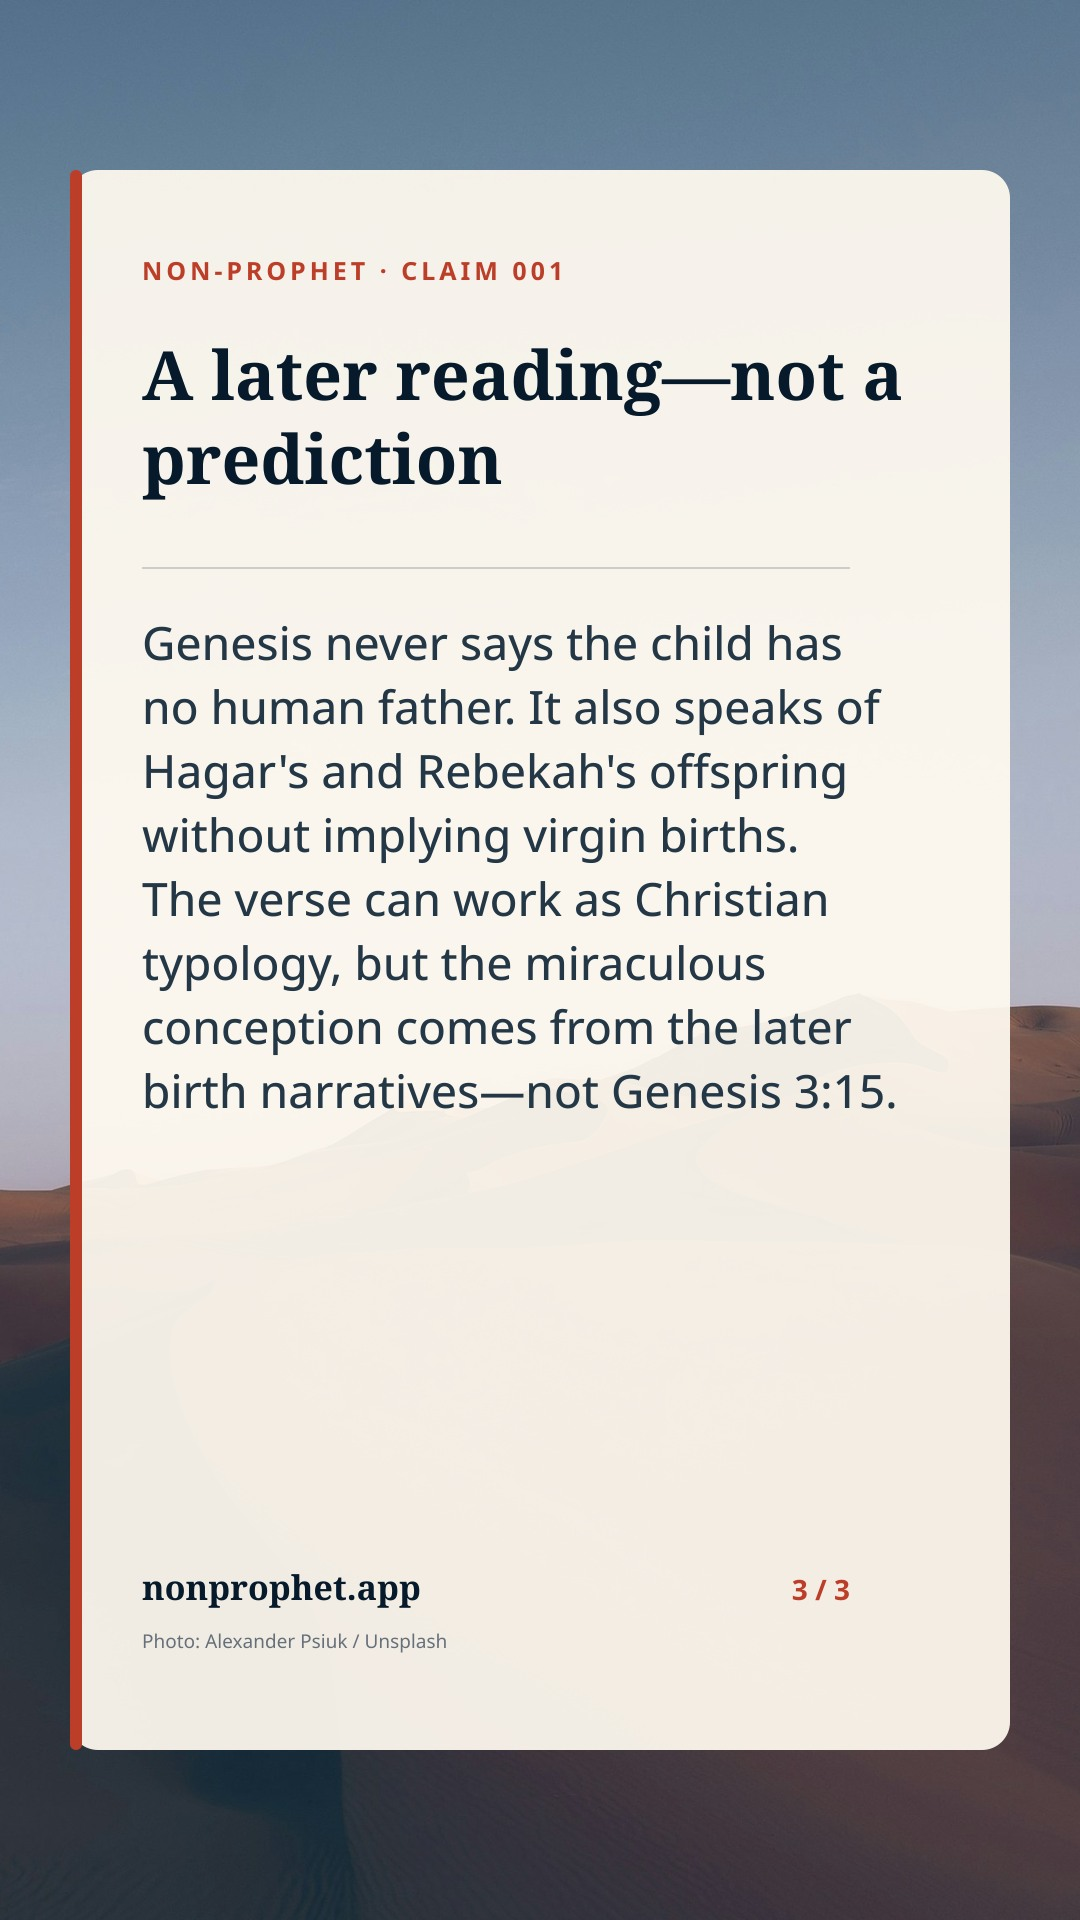
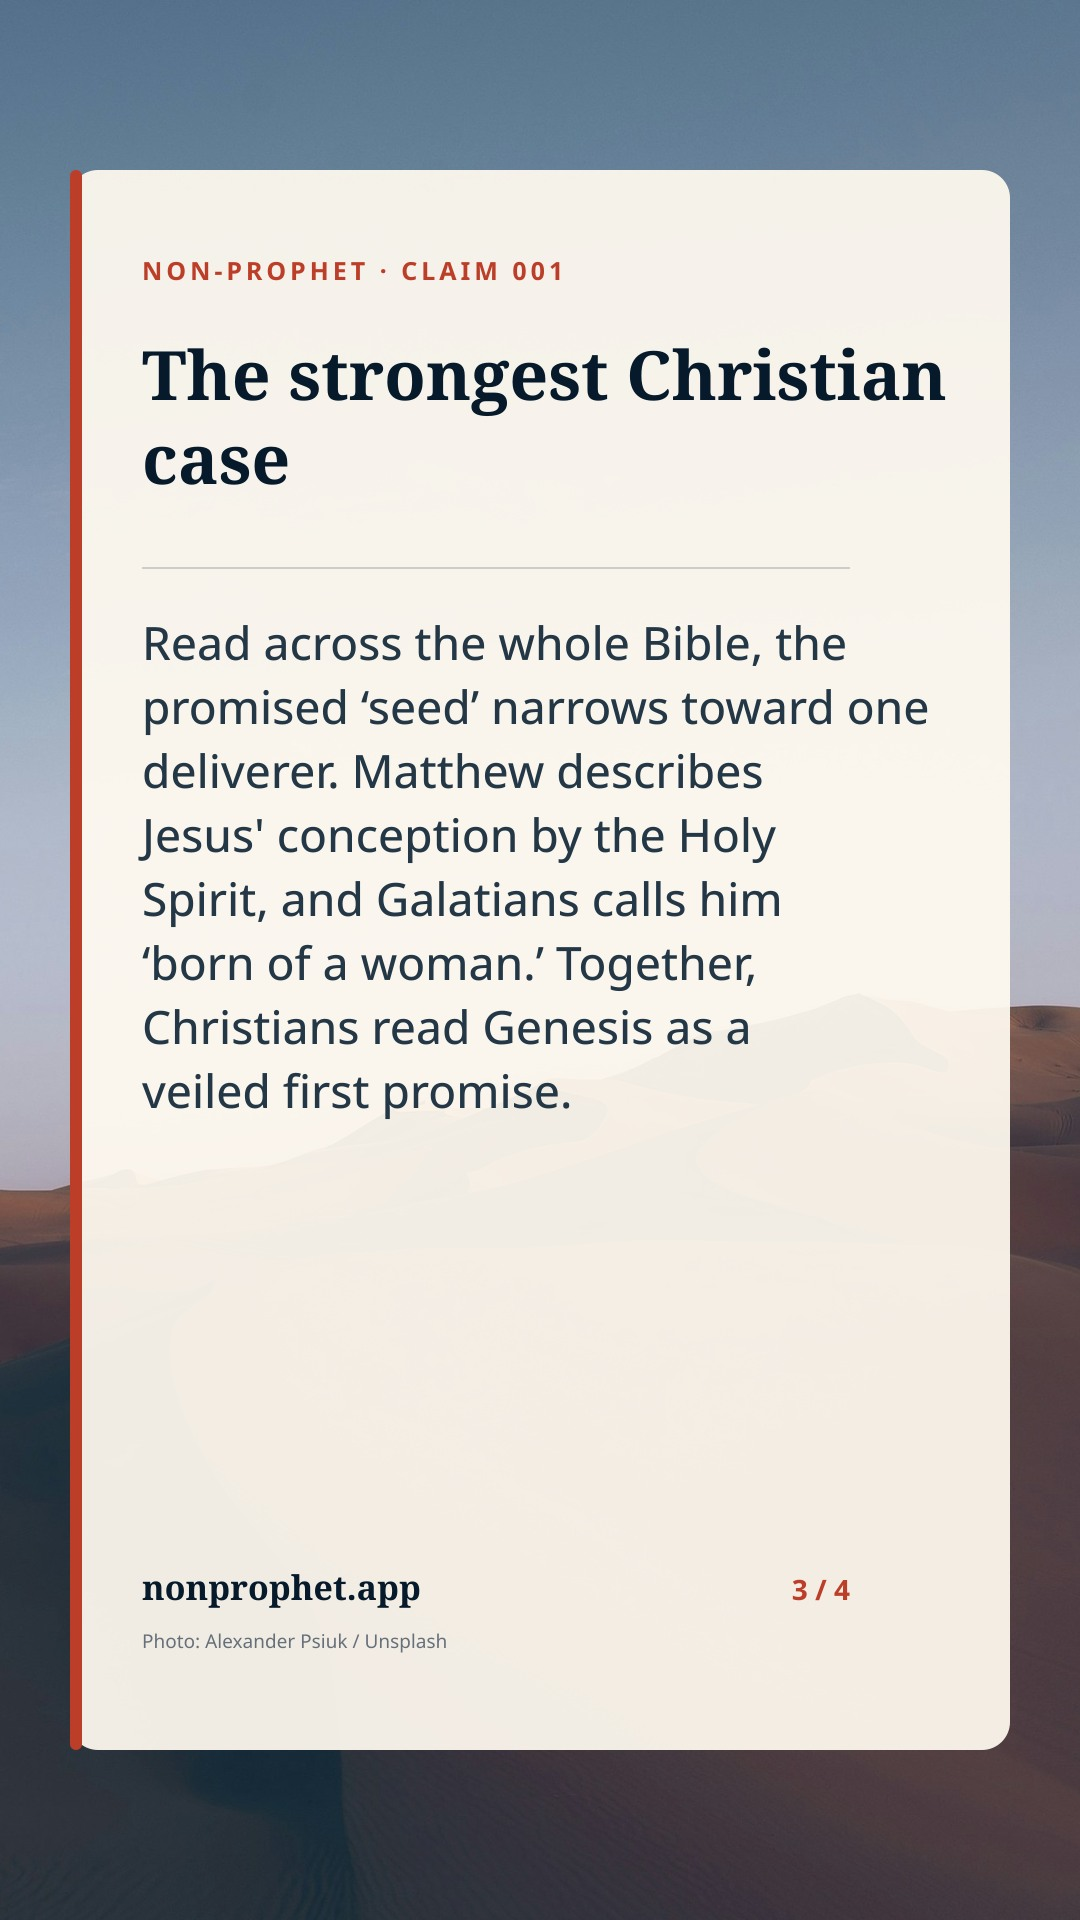
Add scripture slide to social carousels

Changed region(s): [[0.1222, 0.3125, 0.8556, 0.5938], [0.1222, 0.1562, 0.8861, 0.2812], [0.7639, 0.8125, 0.7944, 0.8438]]

diff --git a/editorial/WEEKEND_PLAN_2026-09-05.md b/editorial/WEEKEND_PLAN_2026-09-05.md
@@ -91,7 +91,7 @@ Keep research notes and source quotations separate from concise publication copy
 ### E. Publishing proof
 
 - Generate one claim page from structured content.
-- Generate a three-slide carousel from the same record.
+- Generate a four-slide carousel from the same record.
 - Ensure long/short copy is separated rather than truncated blindly.
 - Include attribution, source links, accessibility text and responsive rendering.
 - Produce one representative difficult claim, not merely the easiest visual example.
@@ -142,7 +142,7 @@ intermediate artefact retained.
 **09:00–12:30**
 
 - Generate the first real claim page from reviewed structured content.
-- Build the reusable three-slide carousel template.
+- Build the reusable four-slide carousel template.
 - Verify mobile layout, accessibility, citations and image attribution handling.
 - Keep the current coming-soon page available until publication is intentional.
 

diff --git a/editorial/PRODUCTION_PLAN.md b/editorial/PRODUCTION_PLAN.md
@@ -19,7 +19,7 @@ For each passage group:
 3. process each claim through the full editorial review protocol;
 4. run the independent adversarial review using a different model;
 5. resolve review findings and flag genuine deadlocks for human review;
-6. prepare article copy and a three-slide social-media script;
+6. prepare article copy and a four-slide social-media script;
 7. mark the claim ready only when sources and quotations are verified.
 
 ## Separation of content and presentation
@@ -32,7 +32,7 @@ Complete the durable editorial content first:
 - critical assessment;
 - sources and review record;
 - website copy;
-- three-slide carousel copy.
+- four-slide carousel copy: scripture, claim, strongest case, and assessment.
 
 ## Display translation
 

diff --git a/editorial/README.md b/editorial/README.md
@@ -14,7 +14,8 @@ One JSON file per claim will live in `records/`, named with its claim ID. Start 
 6. Assign a calibrated verdict under `VERDICT_GUIDE.md`.
 7. Run `ADVERSARIAL_REVIEW_PROMPT.md` through a different model.
 8. Verify and dispose of every objection.
-9. Draft long website copy and exactly three purpose-written carousel slides.
+9. Select a readable BSB excerpt and draft exactly three purpose-written editorial
+   slides; the generator prepends the scripture as slide one.
 10. Mark ready only after all quality gates in `PRODUCTION_PLAN.md` pass.
 
 `SOURCE_STANDARDS.md` defines source tiers and minimum evidence. The JSON Schema is

diff --git a/social/README.md b/social/README.md
@@ -1,6 +1,7 @@
 # Social assets
 
-`carousels/` contains generated three-slide copy derived from the editorial records.
+`carousels/` contains generated four-slide copy derived from the editorial records:
+the BSB passage, precise claim, strongest Christian case, and assessment.
 `backgrounds.json` records image provenance and licence metadata. Each claim under
 `rendered/` contains two visual masters:
 
